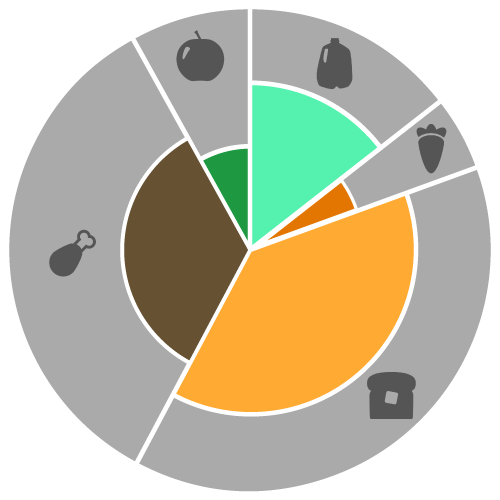
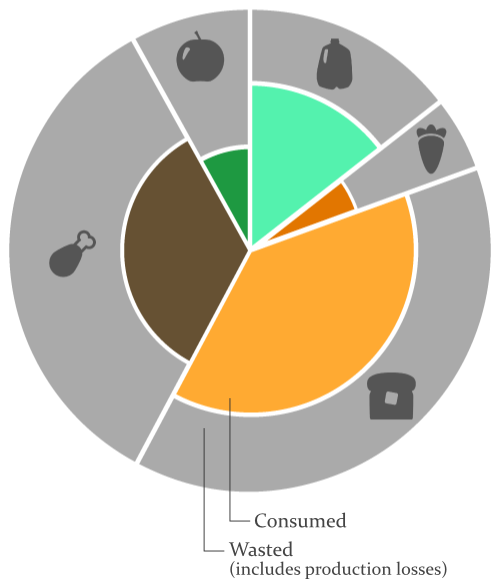
add some legends, clean up HTML

diff --git a/index.html b/index.html
@@ -23,17 +23,19 @@
     <div class="container-fluid">
       <div class="row">
         <div class="col-md-offset-2 col-md-8 pad-top">
+
           <div class="row">
-            <div class="col-md-6 col-sm-6 clearfix hidden-xs">
-              <img id="plate" src="http://frankbi.github.io/food-wasted-youth/graphics/chart.png">
-            </div>
-            <div class="col-md-6 col-sm-6">
+            <div class="col-sm-6 col-sm-push-6 clearfix">
               <div class="intro">
                 <h1>Scrap Stats</h1>
                 <p class="lead">Food waste is simple. We throw away about half of what we create.</p>
               </div>
             </div>
+            <div class="col-sm-6 col-sm-pull-6">
+              <img id="plate" src="graphics/chart.png" >
+            </div>
           </div>
+
           <h4 class="text-center pad-top">Tap the icons below to see how you can improve your food choices by category.</h4>
           <ul class="icons clearfix">
             <li id="fruit">Fruits</li>
@@ -42,28 +44,22 @@
             <li id="meat">Meat</li>
             <li id="milk">Dairy</li>
           </ul>
-          <!-- This is where the d3 function lives -->
-          <div class="house">
-            <div id="vis-container"></div>
-          </div>
-      </div>
-      <div class='row'>
-        <div class="col-md-offset-2 col-md-8">
-          <div class='row'>
-		      <div class="attach-table clearfix"></div>
-          </div>
-        </div>
-      </div>
-            <script type="text/javascript" src="js/jquery-1.9.1.min.js"></script>
-            <script type="text/javascript" src="js/d3.min.js"></script>
+
+	      <div id="fooditems" class='row hidden'>
+		      <div class="attach-table clearfix"> </div>
+		      <p class="text-center">Percent of production that is lossed during production or wasted by the consumer.</p>
+	      </div>
+
           <footer>
-            <p class="text-center">Items listed are displayed by percentage of produced food item that ends as waste.</p>
             <p class="small text-center"><a href="faq.html">Why we built ScrapStats</a>
             &nbsp;&nbsp;&#10084;&nbsp;&nbsp;
             <a href="team.html">Meet the team</a>
             &nbsp;&nbsp;&#10084;&nbsp;&nbsp;
             <a href="https://github.com/frankbi/food-wasted-youth/tree/gh-pages">github repository</a></p>
           </footer>
+
+            <script type="text/javascript" src="js/jquery-1.9.1.min.js"></script>
+            <script type="text/javascript" src="js/d3.min.js"></script>
         </div>
       </div>
     </div>
@@ -81,6 +77,7 @@
 
 
       $("#fruit").click(function(){
+      	$('#fooditems').removeClass('hidden');
 		table.html(function() {
 			var text = "<div class='col-md-offset-1 col-md-10'>" +
 			"<div class='col-md-3'>" +
@@ -104,6 +101,7 @@
 		});
       });
       $("#grain").click(function(){
+      	$('#fooditems').removeClass('hidden');
 		table.html(function() {
 			var text = "<div class='col-md-offset-1 col-md-10'>" +
 			"<div class='col-md-3'>" +
@@ -127,6 +125,7 @@
 		});
       });
       $("#meat").click(function(){
+      	$('#fooditems').removeClass('hidden');
 		table.html(function() {
 			var text = "<div class='col-md-offset-1 col-md-10'>" +
 			"<div class='col-md-3'>" +
@@ -150,6 +149,7 @@
 		});
       });
       $("#milk").click(function(){
+      	$('#fooditems').removeClass('hidden');
 		table.html(function() {
 			var text = "<div class='col-md-offset-1 col-md-10'>" +
 			"<div class='col-md-3'>" +
@@ -173,6 +173,7 @@
 		});
       });
       $("#veg").click(function(){
+      	$('#fooditems').removeClass('hidden');
 		table.html(function() {
 			var text = "<div class='col-md-offset-1 col-md-10'>" +
 			"<div class='col-md-3'>" +
